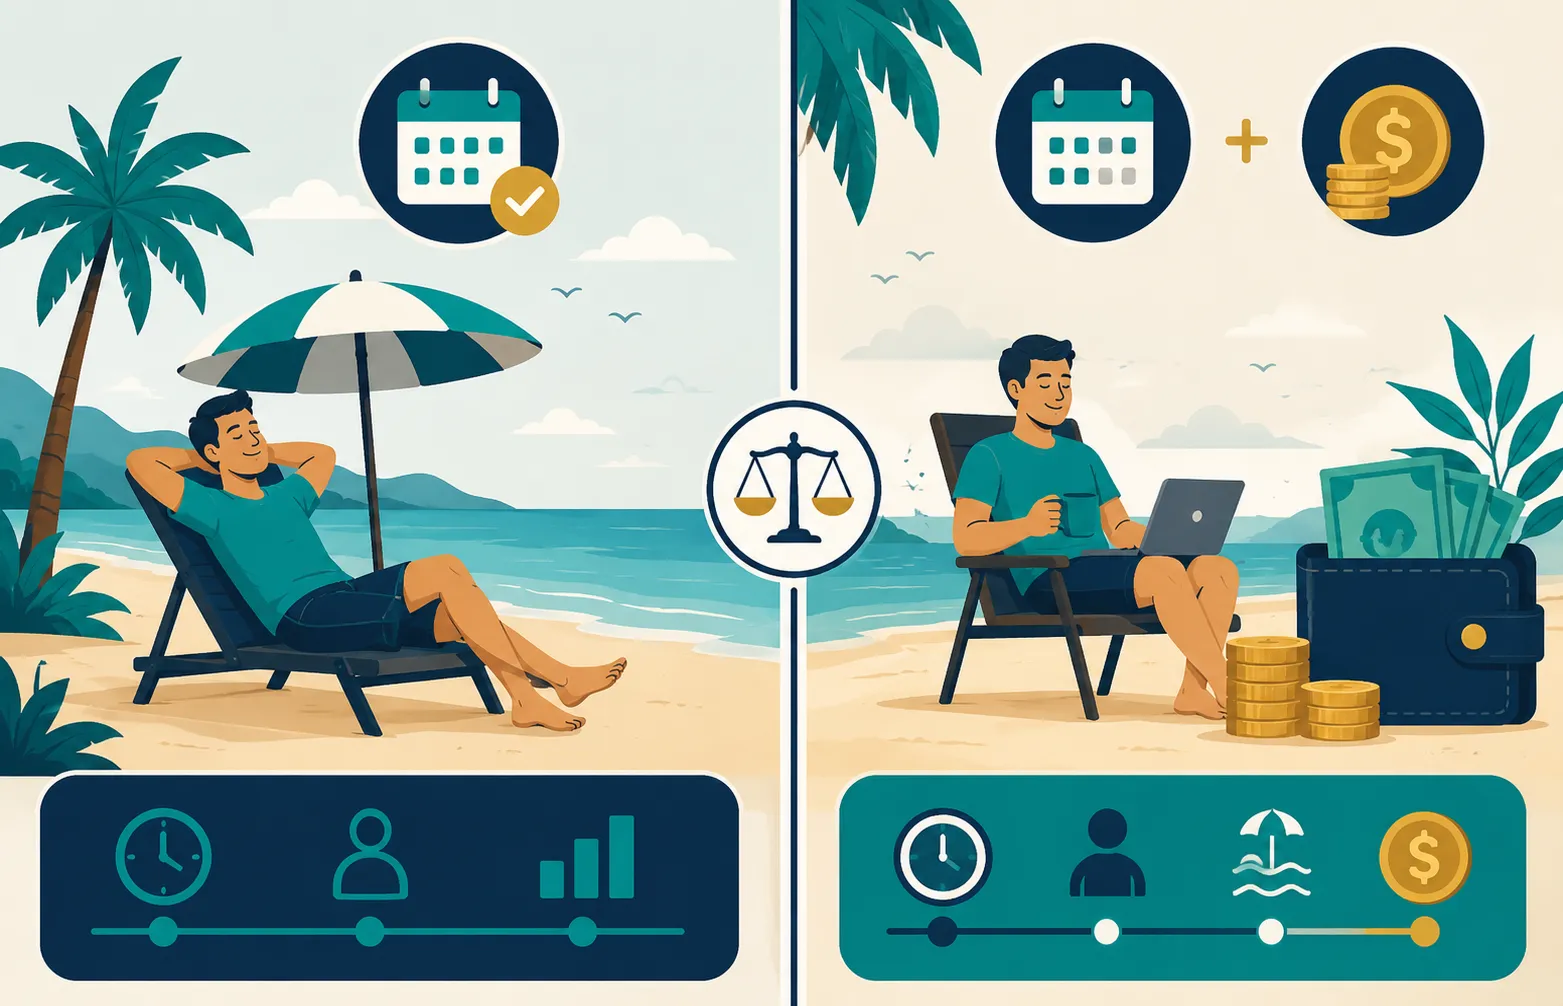
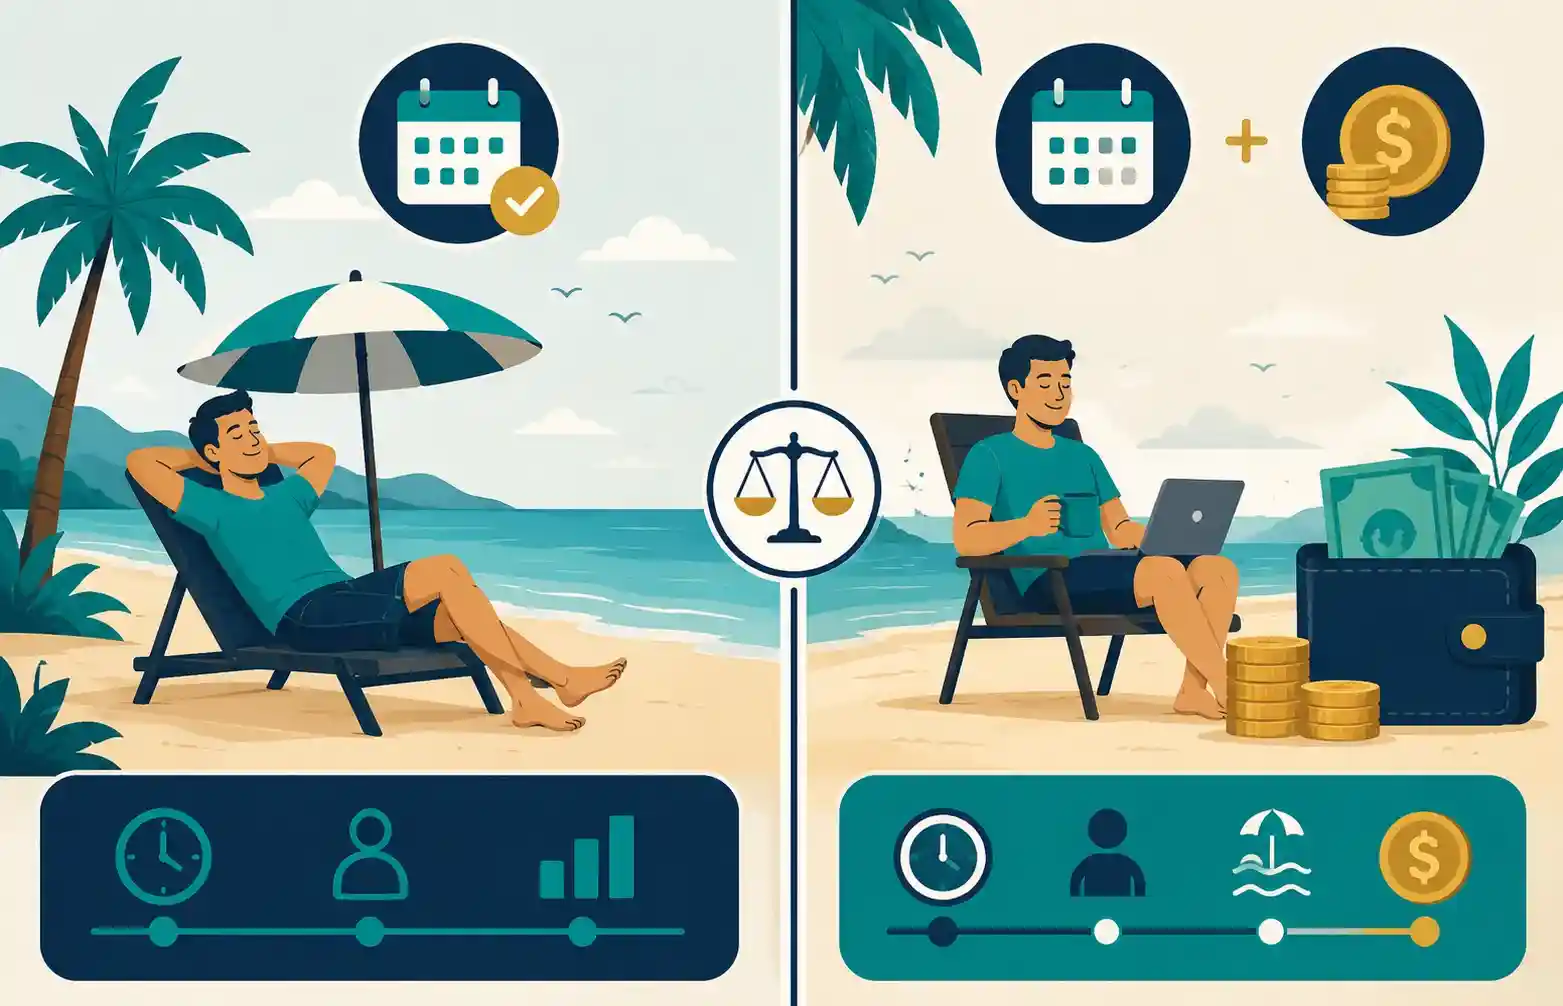
page dev speed homepage

diff --git a/index.html b/index.html
@@ -37,7 +37,7 @@
   --cream-dark: #F0EDE8;
   --text: #1E1E1E;
   --text-light: #5A5A5A;
-  --text-muted: #706F6F;
+  --text-muted: #666666;
   --border: #E2DED8;
   --white: #FFFFFF;
   --red: #C0392B;
@@ -91,11 +91,11 @@ a:hover { text-decoration: underline; color: var(--teal-dark); }
   color: var(--white); background: rgba(255,255,255,0.1); text-decoration: none;
 }
 .nav-cta {
-  background: var(--teal) !important; color: var(--white) !important;
+  background: #097B77 !important; color: var(--white) !important;
   padding: 8px 18px !important; border-radius: 8px !important;
   font-weight: 600 !important;
 }
-.nav-cta:hover { background: var(--teal-dark) !important; }
+.nav-cta:hover { background: var(--navy-light) !important; }
 .hamburger {
   display: none; background: none; border: none; cursor: pointer;
   width: 32px; height: 32px; position: relative;
@@ -135,7 +135,7 @@ a:hover { text-decoration: underline; color: var(--teal-dark); }
   font-style: normal; color: var(--teal-light);
 }
 .hero-sub {
-  color: rgba(255,255,255,0.75); font-size: 1.08rem; max-width: 620px;
+  color: rgba(255,255,255,0.82); font-size: 1.08rem; max-width: 620px;
   margin: 0 auto 10px; line-height: 1.6;
 }
 .hero-badges {
@@ -146,12 +146,12 @@ a:hover { text-decoration: underline; color: var(--teal-dark); }
   display: inline-flex; align-items: center; gap: 6px;
   background: rgba(255,255,255,0.08); border: 1px solid rgba(255,255,255,0.12);
   border-radius: 100px; padding: 6px 16px;
-  color: rgba(255,255,255,0.85); font-size: 0.82rem; font-weight: 500;
+  color: rgba(255,255,255,0.92); font-size: 0.82rem; font-weight: 500;
 }
 .hero-badge svg { flex-shrink: 0; }
 
 /* ─── CALCULATOR ─── */
-.calc-section { padding: 0 5%; margin-top: -40px; position: relative; z-index: 10; }
+.calc-section { padding: 0 5%; margin-top: -40px; position: relative; z-index: 10; content-visibility: visible; contain-intrinsic-size: none; }
 .calc-wrap {
   max-width: 860px; margin: 0 auto;
   background: var(--white); border-radius: 16px;
@@ -182,7 +182,7 @@ a:hover { text-decoration: underline; color: var(--teal-dark); }
 .field label .tip {
   display: inline-flex; align-items: center; justify-content: center;
   width: 16px; height: 16px; border-radius: 50%;
-  background: var(--cream-dark); color: var(--text-muted);
+  background: var(--cream-dark); color: #5A5A5A;
   font-size: 0.65rem; cursor: help; font-weight: 700;
   position: relative;
 }
@@ -201,6 +201,7 @@ a:hover { text-decoration: underline; color: var(--teal-dark); }
   color: var(--text); transition: 0.2s;
   -webkit-appearance: none; appearance: none;
 }
+.field input::placeholder { color: #636363; opacity: 1; }
 .field input:focus, .field select:focus {
   outline: none; border-color: var(--teal); background: var(--white);
   box-shadow: 0 0 0 3px rgba(14,165,160,0.12);
@@ -223,12 +224,12 @@ a:hover { text-decoration: underline; color: var(--teal-dark); }
 .calc-btn-wrap { margin-top: 28px; text-align: center; }
 .calc-btn {
   font-family: var(--font-body); font-size: 1.05rem; font-weight: 700;
-  background: var(--teal); color: var(--white);
+  background: #097B77; color: var(--white);
   border: none; border-radius: 12px; padding: 16px 48px;
   cursor: pointer; transition: 0.25s;
   box-shadow: 0 4px 16px rgba(14,165,160,0.3);
 }
-.calc-btn:hover { background: var(--teal-dark); transform: translateY(-1px); box-shadow: 0 6px 24px rgba(14,165,160,0.35); }
+.calc-btn:hover { background: var(--navy); transform: translateY(-1px); box-shadow: 0 6px 24px rgba(27,42,74,0.35); }
 .calc-btn:active { transform: translateY(0); }
 
 /* ─── RESULTS ─── */
@@ -253,7 +254,7 @@ a:hover { text-decoration: underline; color: var(--teal-dark); }
   font-family: var(--font-display); font-size: 1.5rem; font-weight: 700;
   color: var(--navy);
 }
-.result-card.highlight .value { color: var(--teal-dark); }
+.result-card.highlight .value { color: #087A76; }
 .result-card .sub { font-size: 0.8rem; color: var(--text-light); margin-top: 4px; }
 
 .results-breakdown {
@@ -288,7 +289,7 @@ a:hover { text-decoration: underline; color: var(--teal-dark); }
 }
 
 /* ─── CONTENT SECTIONS ─── */
-section { padding: 76px 5%; }
+section { padding: 76px 5%; content-visibility: auto; contain-intrinsic-size: auto 600px; }
 section:nth-child(even) { background: var(--white); }
 .section-header {
   text-align: center; max-width: 700px; margin: 0 auto 48px;
@@ -441,7 +442,7 @@ tbody tr:hover { background: rgba(14,165,160,0.04); }
   font-family: var(--font-display); color: var(--white);
   font-size: clamp(1.5rem, 3vw, 2rem); margin-bottom: 12px;
 }
-.cta-strip p { color: rgba(255,255,255,0.7); margin-bottom: 28px; max-width: 540px; margin-left: auto; margin-right: auto; }
+.cta-strip p { color: rgba(255,255,255,0.78); margin-bottom: 28px; max-width: 540px; margin-left: auto; margin-right: auto; }
 .cta-btn {
   display: inline-flex; align-items: center; gap: 8px;
   background: var(--gold); color: var(--navy); font-weight: 700;
@@ -743,7 +744,7 @@ tbody tr:hover { background: rgba(14,165,160,0.04); }
   <div class="content-block">
     <h2>O Que e a Calculadora de Ferias e Por Que Usar Uma?</h2>
     <div class="content-img">
-      <img src="images/trabalhador-clt-calculando-ferias.webp" alt="Trabalhador CLT conferindo calculo de ferias no computador" width="780" height="585" fetchpriority="high">
+      <img src="images/trabalhador-clt-calculando-ferias.webp" alt="Trabalhador CLT conferindo calculo de ferias no computador" width="780" height="585" loading="lazy" decoding="async">
     </div>
     <p>Todo trabalhador <strong>CLT</strong> tem direito a 30 dias de ferias remuneradas por ano, garantidos pelo <strong>Art. 130 da Consolidacao das Leis do Trabalho</strong>. Mas o valor final que cai na conta nao e so o salario. O empregador soma o <strong>adicional constitucional de 1/3</strong>, aplica os descontos de <strong>INSS</strong> e <strong>IRRF</strong>, e o resultado final surpreende muita gente para mais ou para menos.</p>
     <p>Usar uma <strong>calculadora de ferias</strong> elimina essa surpresa. Voce insere seu salario bruto, escolhe os dias e a ferramenta entrega o valor liquido exato, com cada desconto discriminado. Nenhuma conta manual, nenhuma duvida se o empregador pagou certo.</p>
@@ -784,7 +785,7 @@ tbody tr:hover { background: rgba(14,165,160,0.04); }
   <div class="content-block">
     <h2>Como o Calculo de Ferias Funciona: A Formula Exata</h2>
     <div class="content-img">
-      <img src="images/formula-calculo-ferias-passo-a-passo.webp" alt="Ilustracao do passo a passo do calculo de ferias CLT com formula" width="780" height="520" loading="lazy">
+      <img src="images/formula-calculo-ferias-passo-a-passo.webp" alt="Ilustracao do passo a passo do calculo de ferias CLT com formula" width="780" height="520" loading="lazy" decoding="async">
     </div>
     <p>Muita gente recebe as ferias e nao entende de onde veio o numero. A formula tem quatro etapas:</p>
 
@@ -847,7 +848,7 @@ tbody tr:hover { background: rgba(14,165,160,0.04); }
   <div class="content-block">
     <h2>Vale a Pena Vender 10 Dias de Ferias? Compare os Dois Cenarios</h2>
     <div class="content-img">
-      <img src="images/comparacao-venda-ferias-abono-pecuniario.webp" alt="Comparacao visual entre ferias integrais e venda de 10 dias com abono pecuniario" width="780" height="502" loading="lazy">
+      <img src="images/comparacao-venda-ferias-abono-pecuniario.webp" alt="Comparacao visual entre ferias integrais e venda de 10 dias com abono pecuniario" width="780" height="502" loading="lazy" decoding="async">
     </div>
     <p>O <strong>abono pecuniario</strong>, tambem chamado de <strong>venda de ferias</strong>, permite que o trabalhador converta ate 10 dias de descanso em dinheiro. O <strong>Art. 143 da CLT</strong> garante esse direito e o empregador nao pode negar o pedido, desde que o trabalhador solicite com <strong>no minimo 15 dias de antecedencia</strong> antes do fim do <strong>periodo aquisitivo</strong>.</p>
 